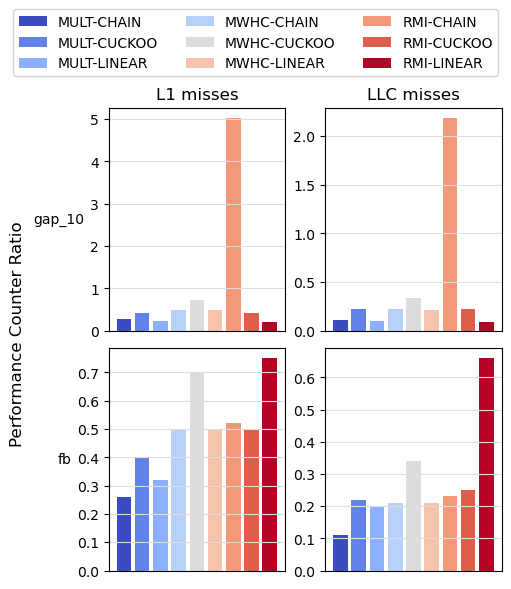
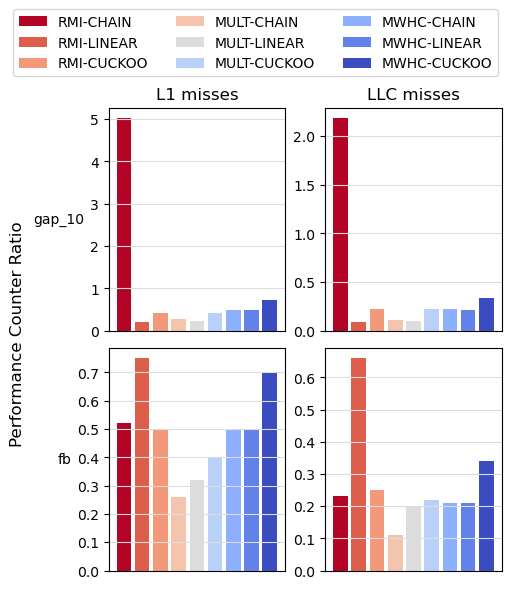
Make plots consistent

diff --git a/scripts/print_figures.py b/scripts/print_figures.py
@@ -76,6 +76,17 @@ F_MAP = {
     'BitMWHC': 9,
     'RecSplit': 10
 }
+LAB_MAP = {
+    'RMI-CHAIN': 0,
+    'MULT-CHAIN': 3,
+    'MWHC-CHAIN': 6,
+    'RMI-LINEAR': 1,
+    'MULT-LINEAR': 4,
+    'MWHC-LINEAR': 7,
+    'RMI-CUCKOO': 2,
+    'MULT-CUCKOO': 5,
+    'MWHC-CUCKOO': 8
+}
     
 COLORS = {}
 COLORS_STRUCT = {}
@@ -153,9 +164,9 @@ def prepare_fn_colormap():
 def groupby_helper(df, static_cols, variable_cols):
     return df.groupby(static_cols)[variable_cols].mean().reset_index()
 
-def sort_labels(labels, handles):
+def sort_labels(labels, handles, map = F_MAP):
     pairs = list(zip(labels, handles))
-    sorted_pairs = sorted(pairs, key=lambda pair: F_MAP[pair[0]])
+    sorted_pairs = sorted(pairs, key=lambda pair: map[pair[0]])
     return zip(*sorted_pairs)
 
 # ===================================================================== #
@@ -551,13 +562,18 @@ def perf_probe(df, no_mwhc=False, pareto=False):
 
     df = df.copy(deep=True)
     df['label'] = df.apply(lambda x : f"{x['function']}-{x['table']}".upper(), axis=1)
-    df = df.sort_values(by='label')
+    
+    def get_map(x):
+        if isinstance(x, pd.Series):
+            return x.apply(lambda i : LAB_MAP[i])
+        return LAB_MAP[x]
+    df = df.sort_values(by='label', key=lambda l: get_map(l))
 
     # Prepare the colors
     labels = df['label'].unique()
     cmap = plt.get_cmap('coolwarm')
     # Create a dictionary of unique colors based on the number of labels
-    colors = {labels[lab_i]: cmap(col_i) for lab_i, col_i in enumerate(np.linspace(0, 1, len(labels)))}
+    colors = {labels[-(lab_i+1)]: cmap(col_i) for lab_i, col_i in enumerate(np.linspace(0, 1, len(labels)))}
 
     if no_mwhc:
         df = df[df['function']!='mwhc']
@@ -581,9 +597,9 @@ def perf_probe(df, no_mwhc=False, pareto=False):
     legend_labels = []
     handles = []
 
-    g_lab = df.groupby('label')
     # For each label
-    for name_lab, group_lab in g_lab:
+    for name_lab in labels:
+        group_lab = df[df['label']==name_lab]
         legend_labels.append(name_lab)
         gap10 = group_lab[group_lab['dataset']=='gap10']
         fb = group_lab[group_lab['dataset']=='fb']
